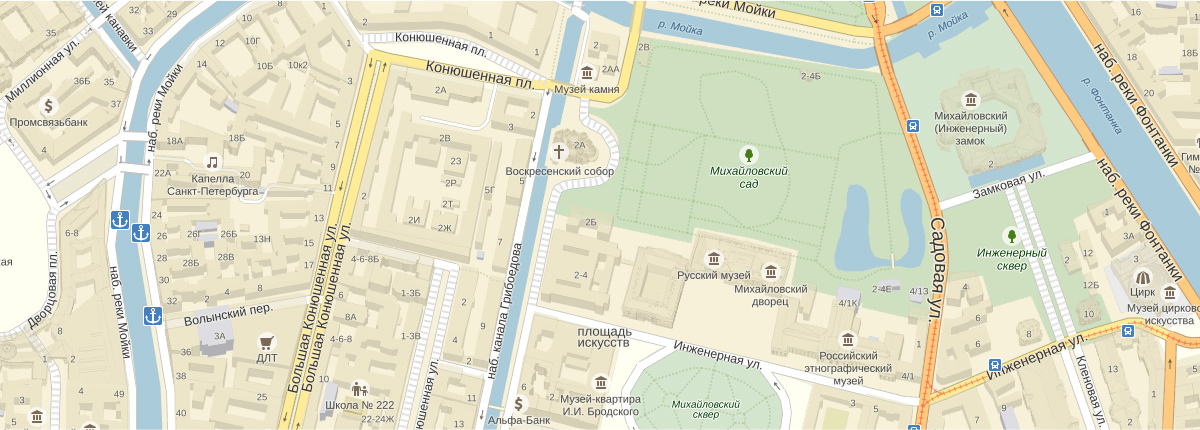
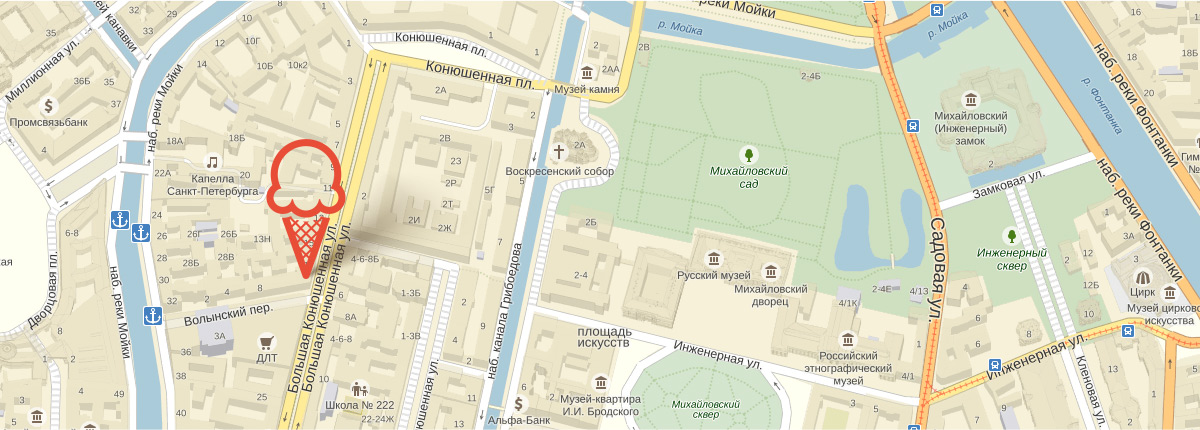
Исправил все ошибки, прошелся валидатором

Changed region(s): [[0.2158, 0.3023, 0.37, 0.6651]]

diff --git a/index.html b/index.html
@@ -14,13 +14,13 @@
     <nav class="main-navigator">
       <ul class="site-navigator">
         <li>
-          <a href="Catalog.html">Каталог</a>
+          <a>Каталог</a>
           <ul>
             <li>
               <a href="#">Новинки</a>
             </li>
             <li>
-              <a href="#">Сливочное</a>
+              <a href="catalog.html">Сливочное</a>
             </li>
             <li>
               <a href="#">Щербеты</a>
@@ -35,44 +35,39 @@
 
         </li>
         <li>
-          <a href="Shipping-and-payment.html">Доставка и оплата</a>
+          <a href="#">Доставка и оплата</a>
         </li>
         <li>
-          <a href="company.html">О компании</a>
+          <a href="#">О компании</a>
         </li>
       </ul>
     </nav>
-    <ul class="user-navigation-search">
-      <li class="search">
+    <div class="user-navigation-search">
+      <div class="search">
         <button class="search1">Поиск</button>
-        <a class="button-search" href="button-search.html"></a>
-        <input type="search" name="search" placeholder="Что ищем?">
-        <span>Что ищем?</span>
-      </li>
-    </ul>
-    <ul class="user-navigation-enter">
-      <li class="login-link">
+        <div class="div-search">
+          <input type="text" id="search-text" name="search-text">
+          <span>Что ищем?</span>
+        </div>
+      </div>
+    </div>
+    <div class="user-navigation-enter">
+      <div class="login-link">
         <button class="enter1">Вход</button>
         <input type="text" id="login" name="login" placeholder="Электронная почта">
         <input type="text" id="pass" name="pass" placeholder="Пароль">
         <button class="enter">Войти</button>
         <a href="#">Забыли пароль?</a>
         <a href="#">Новая регистрация</a>
-      </li>
+      </div>
 
-    </ul>
-    <ul>
-      <li class="basket">
-        <a class="cage" href="#">Корзина</a>
-      </li>
-    </ul>
-    <div class="feedback-form-index">
-      <strong>Мы обязательно вам ответим!</strong>
-      <input type="text" id="your-name" placeholder="Как вас зовут?">
-      <input type="text" id="your-email" placeholder="Ваша почта для ответа?">
-      <input type="text" id="mess" placeholder="Напишите что нибудь...">
-      <button class="ship">Отправить</button>
     </div>
+    <div>
+      <div class="basket">
+        <a class="cage" href="#">Корзина</a>
+      </div>
+    </div>
+
 
     <b class="time-work">С 10 до 20, ежедневно</b>
     <b class="number">8 812 450-25-25</b>
@@ -81,22 +76,20 @@
     <h1 class="visually-hidden">Магазин мороженного «Gllacy»</h1>
     <section class="banner1">
       <h2 class="for-free1">Малинка даром!</h2>
-      <p>При покупке 2кг любого фруктового мороженного, добавим
-        <br> в ваш заказ банку малинового варенья бесплатно.</p>
-      <button class="want-a-jam">Хочу варенье!</button>
-      <a class="banner-jam">
-        <img src="img/raspberries.jpg" width="560" height="229" alt="баннер с малинкой)">
-      </a>
+      <p>При покупке 2кг любого фруктового мороженного, добавим в ваш заказ банку малинового варенья бесплатно.</p>
+      <a href="#" class="want-a-jam">Хочу варенье!</a>
+
+
+
     </section>
     <section class="banner2">
       <h2 class="for-free2">Шоколадки даром!</h2>
-      <p>При покупке 2кг пломбира, добавим в ваш заказ упаковку
-        <br> вкуснейшей шоколадной присыпки совершенно бесплатно.
+      <p>При покупке 2кг пломбира, добавим в ваш заказ упаковку вкуснейшей шоколадной присыпки совершенно бесплатно.
       </p>
-      <button class="want-a-chocolate">Хочу шоколадки!</button>
-      <a class="banner-chocolate">
-        <img src="img/chocolate.jpg" width="560" height="229" alt="баннер с шоколадкой)">
-      </a>
+      <a href="#" class="want-a-chocolate">Хочу шоколадки!</a>
+
+
+
     </section>
     <section class="price">
       <h2 class="visually-hidden">Примеры мороженного «Gllacy»</h2>
@@ -126,94 +119,107 @@
       </ul>
     </section>
     <section class="vaflya">
-      <img src="img/vaflya.png" width="734" height="433" alt="вафля">
+
       <h2>
         Магазин Глэйси — это онлайн- и офлайн-магазин по продаже мороженого собственного производства на развес
       </h2>
-      <p>Все наше мороженое изготавливается на собственном
-        <br> производстве, с использованием современного оборудования
-        <br> и проверенных временем технологий.
+      <p>
+        <img src="img/icon-ice.svg" width="49" height="49" alt="мороженка">Все наше мороженое изготавливается на собственном производстве, с использованием современного оборудования и проверенных
+        временем технологий.
       </p>
-      <br>
-      <p>Для приготовления мороженого используются настоящие
-        <br> сливки и молоко высочайшего качества. Все дополнительные
-        <br> ингредиенты и добавки произведены из натурального,
-        <br> экологически чистого сырья.
+      <p>
+        <img src="img/icon-list.svg" width="49" height="49" alt="листик">Для приготовления мороженого используются настоящие сливки и молоко высочайшего качества. Все дополнительные ингредиенты
+        и добавки произведены из натурального, экологически чистого сырья.
       </p>
-      <img src="img/icon-ice.svg" width="49" height="49" alt="мороженка">
-      <img src="img/icon-list.svg" width="49" height="49" alt="листик">
-      <p>Закупка ингредиентов производится только у проверенных
-        <br> фермерских хозяйств и компаний, с которыми нас связывает
-        <br> долговременное сотрудничество.
+      <p>
+        <img src="img/icon-beacon.svg" width="49" height="49" alt="корова">Закупка ингредиентов производится только у проверенных фермерских хозяйств и компаний, с которыми нас связывает долговременное
+        сотрудничество.
       </p>
-      <br>
-      <p> Доставка нашего мороженого до заказчиков осуществляется
-        <br> в специальном термопаке, который не дает мороженому
-        <br> растаять в пути и позволяет сохранить превосходный вкус.
+
+      <p>
+        <img src="img/icon-termometer.svg" width="49" height="49" alt="градусник"> Доставка нашего мороженого до заказчиков осуществляется в специальном термопаке, который не дает мороженому растаять
+        в пути и позволяет сохранить превосходный вкус.
       </p>
-      <img src="img/icon-beacon.svg" width="49" height="49" alt="корова">
-      <img src="img/icon-termometer.svg" width="49" height="49" alt="градусник">
+
     </section>
     <section class="news">
-      <img src="img/news.jpg" width="560" height="220" alt="клубничка">
-      <h3>Новое в нашем блоге</h3>
+
+      <h2>Новое в нашем блоге</h2>
       <a href="#">
-        <strong class="news-underline">10 способов сервировки фруктовых щербетов к столу
-        </strong>
+        <p class="news-underline">10 способов сервировки фруктовых щербетов к столу
+        </p>
       </a>
     </section>
     <section class="subscribe">
       <h3 class="visually-hidden">Подписка на новости «Gllacy»</h3>
-      <p class="subscribe-text">Подпишитесь на нашу сладкую рассылку и будете всегда в курсе
-        <br> всего самого вкусного, что у нас происходит. Обещаем не спамить
-        <br> и не слать всякой ненужной ерунды. Честно =) </p>
+      <p class="subscribe-text">Подпишитесь на нашу сладкую рассылку и будете всегда в курсе всего самого вкусного, что у нас происходит. Обещаем не
+        спамить и не слать всякой ненужной ерунды. Честно =) </p>
       <label for="email">Электронная почта</label>
       <input type="email" id="email" name="email" placeholder="Электронная почта">
       <button type="submit">Отправить</button>
     </section>
-      <section class="map">
-        <img src="img/map.jpg" width="1250" height="430" alt="карта местности">
-        <img src="img/ice-lable.svg" width="80" height="140" alt="метка мороженка">
-        <div class="feedback-form">
-          <h4>Адрес главного офиса
-            <br>и офлайн-магазина</h4>
-          <strong>
-            ул. Большая Конюшенная
-            <br>19/8, Санкт-Петербург
-          </strong>
-          <p>Для заказов по телефону:</p>
-          <strong>8 812 450-25-25</strong>
-          <p>(с 10 до 20 ежедневно)</p>
-          <a class="site-button feedback-button" href="feedback.html">Форма обратной связи</a>
-        </div>
-      </section>
-    </main>
-    <footer>
-        <a class="social-btn social-btn-tw" href="#">Твиттер</a>
-        <a class="social-btn social-btn-in" href="#">Инстаграм</a>
-        <a class="social-btn social-btn-fb" href="#">Фейсбук</a>
-        <a class="social-btn social-btn-vk" href="#">ВКонтакте</a>
-        <table class="table-footer-menu">
-          <tr>
-            <td>
-              <a class="heart" href="#">Для поставщиков</a>
-            </td>
-            <td>
-              <a href="#">Наши документы</a>
-            </td>
-          </tr>
-          <tr>
-            <td>
-              <a href=#>О производстве</a>
-            </td>
-            <td>
-              <a href="#">Экологические стандарты</a>
-            </td>
-          </tr>      
-        </table>
-        <img src="/img/html-logo.svg" width="108" height="39" alt="Логотип HTMLAcademy">
-        <p>Сделано в HTML Academy © 2017</p>
-    </footer>
+    <section class="map">
+      <img src="img/map.jpg" width="1250" height="430" alt="карта местности">
+
+      <div class="feedback-form">
+        <h4>Адрес главного офиса
+          <br>и офлайн-магазина</h4>
+        <strong>
+          ул. Большая Конюшенная
+          <br>19/8, Санкт-Петербург
+        </strong>
+        <p>Для заказов по телефону:</p>
+        <strong>8 812 450-25-25</strong>
+        <p>(с 10 до 20 ежедневно)</p>
+        <button class="site-button feedback-button">Форма обратной связи</button>
+      </div>
+    </section>
+    <div class="feedback-form-index">
+      <strong>Мы обязательно вам ответим!</strong>
+      <input type="text" id="your-name" placeholder="Как вас зовут?">
+      <input type="text" id="your-email" placeholder="Ваша почта для ответа?">
+      <input type="text" id="mess" placeholder="Напишите что нибудь...">
+      <button class="ship">Отправить</button>
+    </div>
+  </main>
+  <footer>
+    <ul>
+      <li class="social-btn social-btn-tw">
+        <a href="#">Твиттер</a>
+      </li>
+      <li class="social-btn social-btn-in">
+        <a href="#">Инстаграм</a>
+      </li>
+      <li class="social-btn social-btn-fb">
+        <a href="#">Фейсбук</a>
+      </li>
+      <li class="social-btn social-btn-vk">
+        <a href="#">ВКонтакте</a>
+      </li>
+    </ul>
+    <div class="table-footer-menu">
+      <ul>
+        <li>
+          <a class="heart" href="#">Для поставщиков</a>
+        </li>
+        <li>
+          <a href="#">Наши документы</a>
+        </li>
+      </ul>
+      <ul>
+        <li>
+          <a href=#>О производстве</a>
+        </li>
+        <li>
+          <a href="#">Экологические стандарты</a>
+        </li>
+      </ul>
+    </div>
+    <div class="htmlacademy-logo">
+      <img src="/img/html-logo.svg" width="108" height="39" alt="Логотип HTMLAcademy">
+      <p>Сделано в HTML Academy © 2017</p>
+    </div>
+  </footer>
 </body>
 
 </html>

diff --git a/catalog.html b/catalog.html
@@ -8,9 +8,11 @@
 
 <body>
     <header class="catalog-header">
-        <a class="catalog-header-logo">
-            <img src="img/index-logo.png" width="154" height="64" alt="Логотип магазина мороженного «Gllacy»">
-        </a>
+        <div class="catalog-header-logo">
+            <a href="index.html">
+                <img src="img/index-logo.png" width="154" height="64" alt="Логотип магазина мороженного «Gllacy»">
+            </a>
+        </div>
         <nav class="main-navigator">
             <ul class="site-navigator">
                 <li>
@@ -129,29 +131,27 @@
         <b class="number">8 812 450-25-25</b>
     </header>
     <main>
-        <table>
-            <tr>
-                <td>
-                    <a href="index.html">Главная</a>
-                </td>
 
-                <td>
-                    <p>Вперед</p>
-                </td>
+        <ul>
+            <li>
+                <a href="index.html">Главная</a>
+            </li>
 
-                <td>
-                    <a href="catalog.html">Каталог</a>
-                </td>
 
-                <td>
-                    <p>Вперед</p>
-                </td>
 
-                <td>
-                    <p>Сливочное</p>
-                </td>
-            </tr>
-        </table>
+            <li>
+                <a href="catalog.html">Каталог</a>
+            </li>
+
+
+
+            <li>
+                <p>
+                    <a>Сливочное</a>
+                </p>
+            </li>
+        </ul>
+
         <section class="catalog-ice">
             <h1>Сливочное мороженое</h1>
             <ul>
@@ -233,28 +233,29 @@
         </section>
         <section class="page">
 
-            <table>
-                <tr>
-                    <td>
+            <nav>
+                <ul>
+
+                    <li>
                         <a href="#" class="1page">1</a>
-                    </td>
-                    <td>
+                    </li>
+                    <li>
                         <a href="#" class="2page">2</a>
-                    </td>
-                    <td>
+                    </li>
+                    <li>
                         <a href="#" class="3page">3</a>
-                    </td>
-                    <td>
+                    </li>
+                    <li>
                         <a href="#" class="4page">4</a>
-                    </td>
-                    <td>
+                    </li>
+                    <li>
                         <a href="#" class="5page">5</a>
-                    </td>
-                    <td>
+                    </li>
+                    <li>
                         <a href="#" class="last-page">далее</a>
-                    </td>
-                </tr>
-            </table>
+                    </li>
+                </ul>
+            </nav>
         </section>
     </main>
     <footer>
